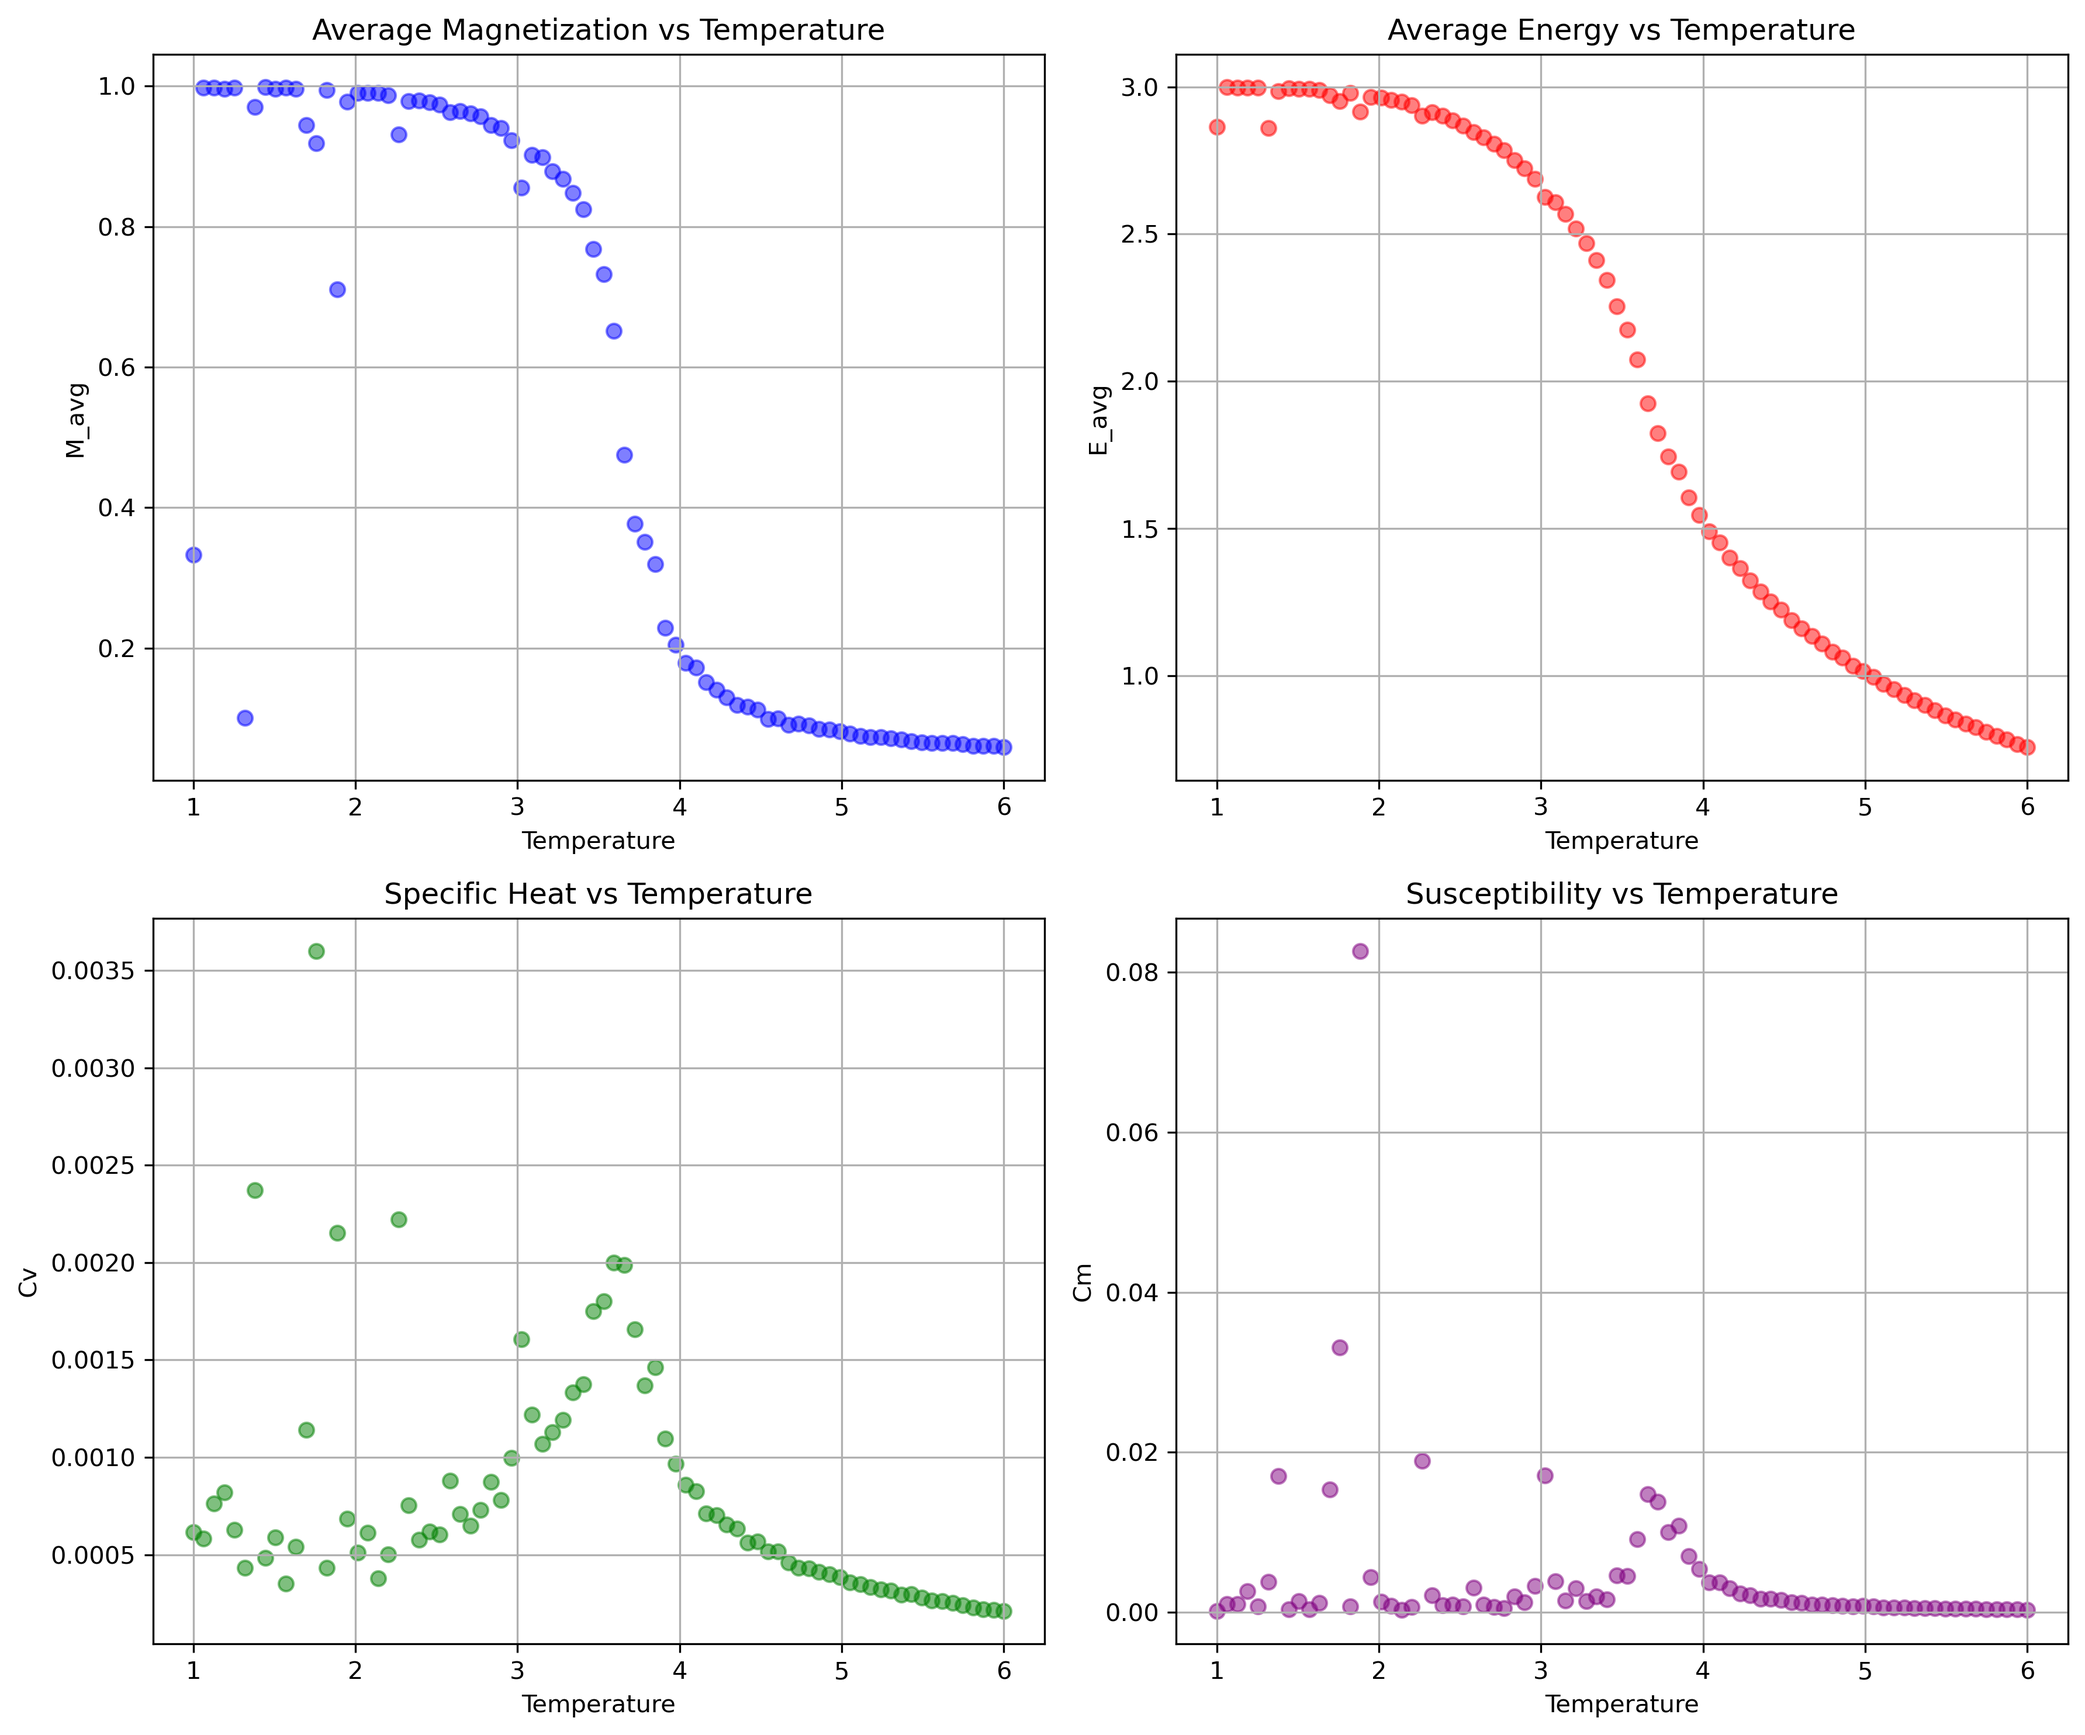
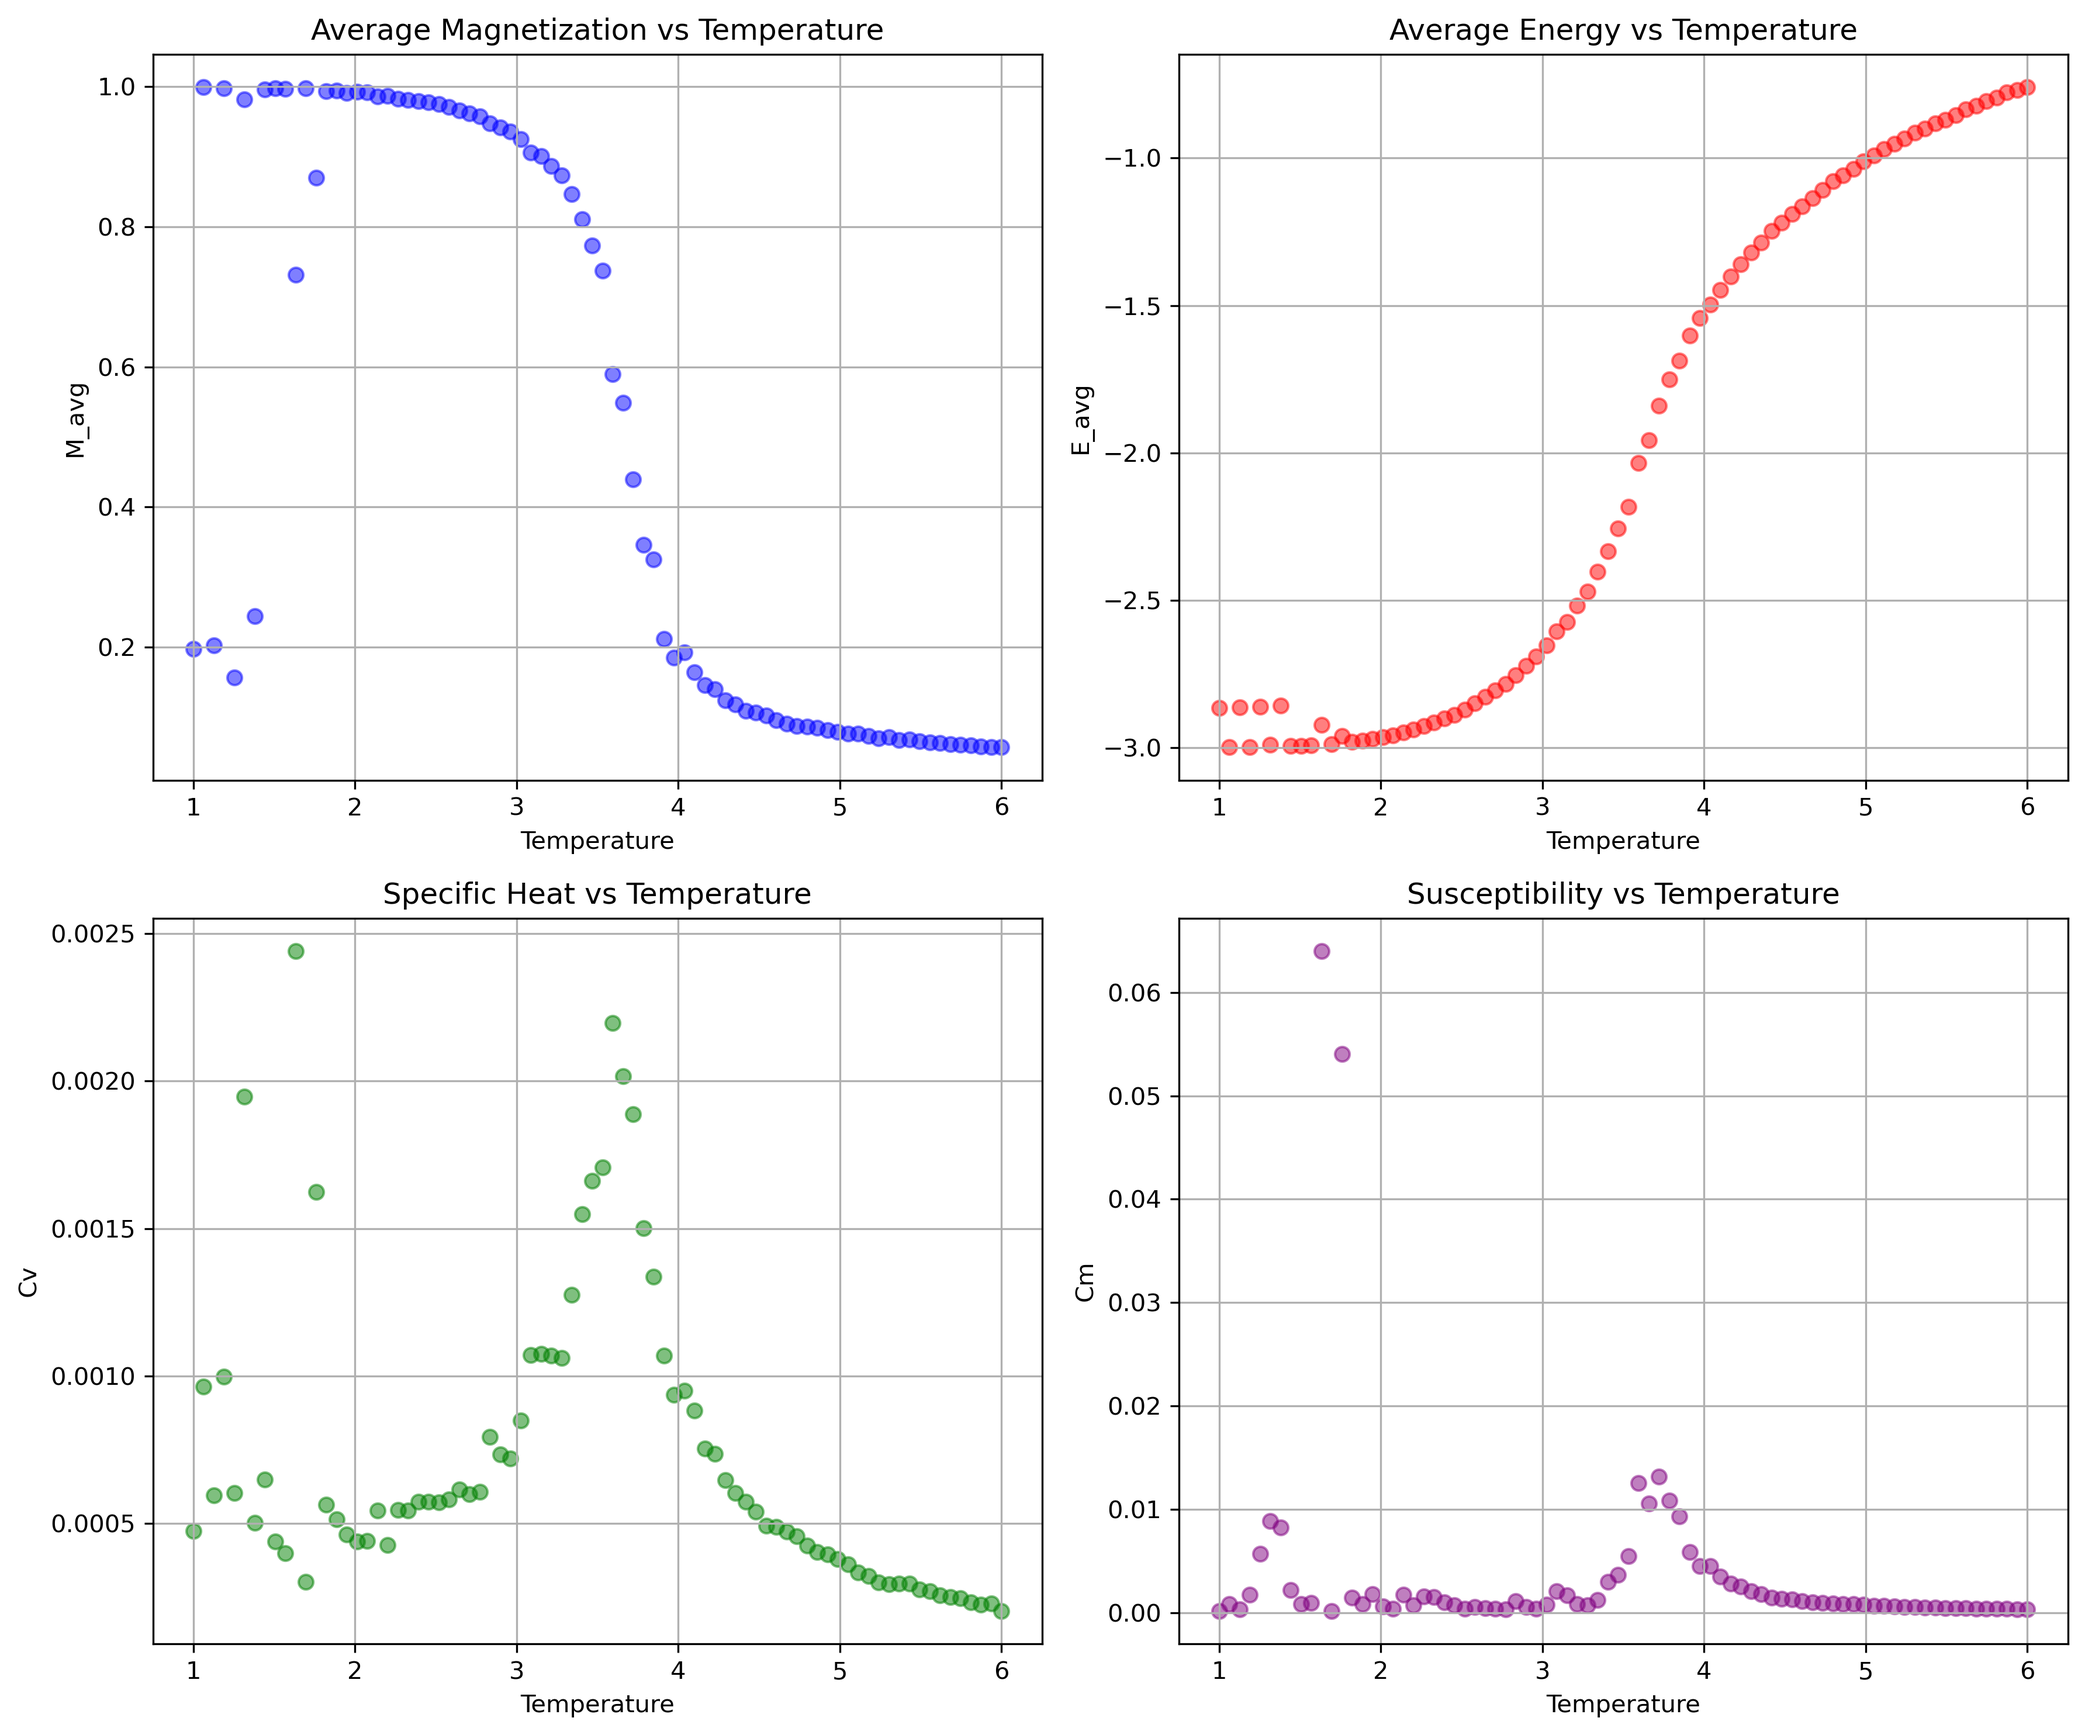
cancel error of the energy calculate

diff --git a/Lattice.py b/Lattice.py
@@ -74,7 +74,7 @@ class Lattice(ABC):
                 # interaction energy with local energy
                 for neighbor in self.get_neighbors(i, j):
                     E -= 0.5 * spin * self.lattice[neighbor].spin
-        return abs(E)  # total energy
+        return E  # total energy
 
 
     def monte_carlo_step(self):
